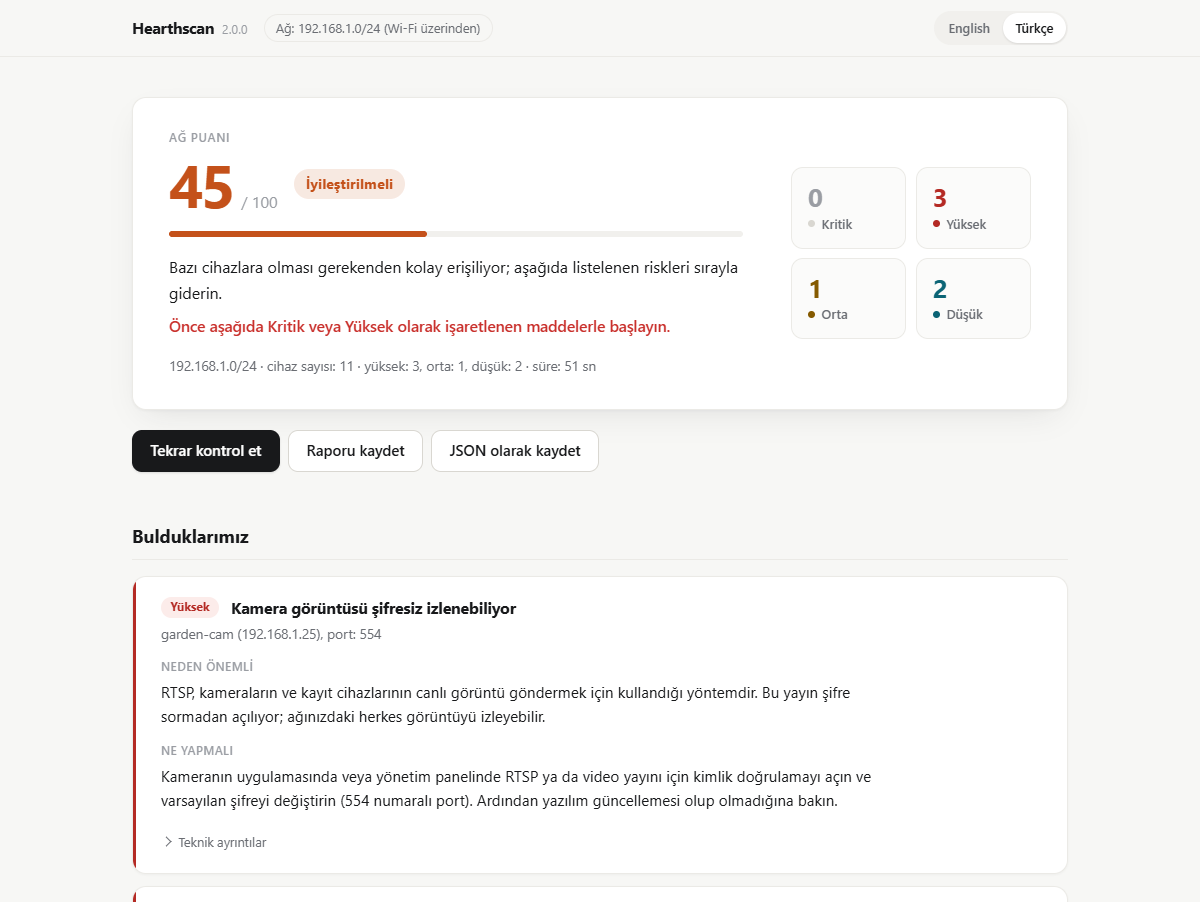
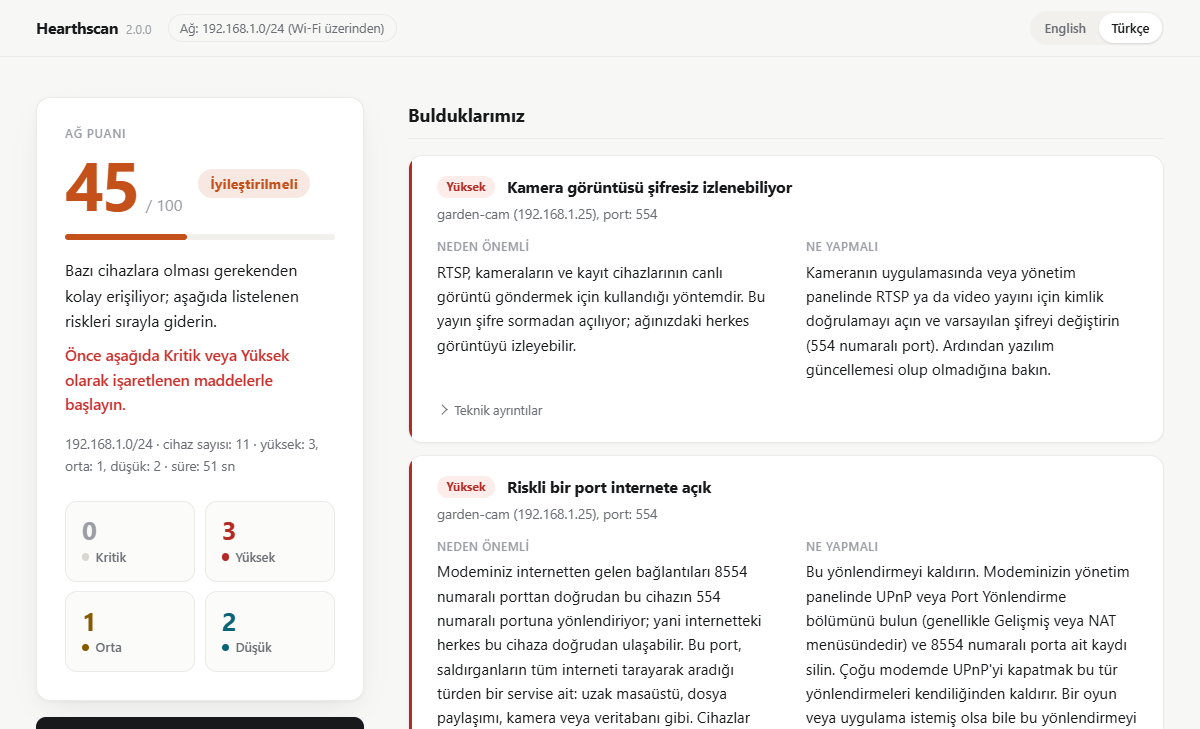
Lay the window out as a panel
In a wide window the result splits in two: the score, the counts and the
buttons stay at hand in a column on the left while the findings, the router
and the devices scroll by on the right. Why it matters and what to do sit
side by side in each finding, and the network and router details read
across in cells.

The start screen is no longer a card but the question, the answer and the
one button in the middle of the window. Narrow windows and phones keep the
single column.

The page only gains two wrappers and a class; the script and the texts are
unchanged. screenshots.py now crops below the score as well, since it sits
beside the first finding.

diff --git a/src/hearthscan/gui/web/index.html b/src/hearthscan/gui/web/index.html
@@ -62,7 +62,7 @@
     </div>
     <section class="card netcard" id="netcard" hidden aria-labelledby="net-title">
       <h2 id="net-title" data-t="gui.start.network"></h2>
-      <dl class="facts-grid" id="netfacts"></dl>
+      <dl class="facts-grid facts-row" id="netfacts"></dl>
     </section>
   </section>
 
@@ -83,83 +83,87 @@
     </div>
   </section>
 
-  <section class="view" id="view-result" hidden aria-labelledby="score-title">
-    <section class="card score" id="score">
-      <div class="score-main">
-        <h1 class="eyebrow" id="score-title" tabindex="-1" data-t="ui.score.title"></h1>
-        <p class="score-line">
-          <span class="number" id="score-number"></span>
-          <span class="out-of">/ 100</span>
-          <span class="band-title" id="band-title"></span>
-        </p>
-        <div class="meter" aria-hidden="true"><span class="meter-fill" id="meter-fill"></span></div>
-        <p class="band-summary" id="band-summary"></p>
-        <p class="urgent" id="urgent" hidden data-t="ui.score.urgent"></p>
-        <p class="warn" id="unprobed" hidden data-t="gui.result.unprobed"></p>
-        <p class="facts" id="facts"></p>
+  <section class="view view-result" id="view-result" hidden aria-labelledby="score-title">
+    <div class="result-side">
+      <section class="card score" id="score">
+        <div class="score-main">
+          <h1 class="eyebrow" id="score-title" tabindex="-1" data-t="ui.score.title"></h1>
+          <p class="score-line">
+            <span class="number" id="score-number"></span>
+            <span class="out-of">/ 100</span>
+            <span class="band-title" id="band-title"></span>
+          </p>
+          <div class="meter" aria-hidden="true"><span class="meter-fill" id="meter-fill"></span></div>
+          <p class="band-summary" id="band-summary"></p>
+          <p class="urgent" id="urgent" hidden data-t="ui.score.urgent"></p>
+          <p class="warn" id="unprobed" hidden data-t="gui.result.unprobed"></p>
+          <p class="facts" id="facts"></p>
+        </div>
+        <ul class="tiles" id="tiles" data-t-label="gui.result.counts"></ul>
+      </section>
+
+      <div class="toolbar">
+        <button type="button" class="btn btn-primary" id="again" data-t="gui.result.again"></button>
+        <button type="button" class="btn btn-secondary" id="save-report" data-t="gui.save.report"></button>
+        <button type="button" class="btn btn-secondary" id="save-json" data-t="gui.save.json"></button>
       </div>
-      <ul class="tiles" id="tiles" data-t-label="gui.result.counts"></ul>
-    </section>
-
-    <div class="toolbar">
-      <button type="button" class="btn btn-primary" id="again" data-t="gui.result.again"></button>
-      <button type="button" class="btn btn-secondary" id="save-report" data-t="gui.save.report"></button>
-      <button type="button" class="btn btn-secondary" id="save-json" data-t="gui.save.json"></button>
-    </div>
-    <div class="save-box">
-      <p class="save-message" id="save-message" role="status"></p>
-      <button type="button" class="btn btn-quiet" id="copy" hidden data-t="gui.save.copy"></button>
-      <div class="copy-box" id="copy-box" hidden>
-        <label for="copy-text" data-t="gui.save.text"></label>
-        <textarea id="copy-text" rows="8" readonly spellcheck="false"></textarea>
-      </div>
-    </div>
-
-    <section class="block" aria-labelledby="findings-title">
-      <h2 id="findings-title" data-t="ui.findings.title"></h2>
-      <p class="ok" id="findings-none" hidden data-t="ui.findings.none"></p>
-      <div class="finding-list" id="finding-list"></div>
-      <div id="fyi" hidden>
-        <h3 data-t="ui.findings.fyi"></h3>
-        <ul class="card list" id="fyi-list"></ul>
-      </div>
-    </section>
-
-    <section class="block" id="router" hidden aria-labelledby="router-title">
-      <h2 id="router-title" data-t="ui.router.title"></h2>
-      <dl class="card facts-grid router-facts" id="router-facts"></dl>
-      <h3 data-t="ui.router.mappings"></h3>
-      <div id="mappings"></div>
-    </section>
-
-    <section class="block" aria-labelledby="devices-title">
-      <div class="block-head">
-        <h2 id="devices-title"><span data-t="ui.devices.title"></span> <span class="count" id="device-count"></span></h2>
-        <div class="search" id="search-box">
-          <label class="sr-only" for="search" data-t="gui.devices.search"></label>
-          <svg class="icon" viewBox="0 0 24 24" aria-hidden="true" focusable="false">
-            <circle cx="11" cy="11" r="6.5"/>
-            <path d="m16 16 4 4"/>
-          </svg>
-          <input type="search" id="search" autocomplete="off" spellcheck="false" data-t-placeholder="gui.devices.search_hint">
+      <div class="save-box">
+        <p class="save-message" id="save-message" role="status"></p>
+        <button type="button" class="btn btn-quiet" id="copy" hidden data-t="gui.save.copy"></button>
+        <div class="copy-box" id="copy-box" hidden>
+          <label for="copy-text" data-t="gui.save.text"></label>
+          <textarea id="copy-text" rows="8" readonly spellcheck="false"></textarea>
         </div>
       </div>
-      <p class="hint shown" id="device-shown" aria-live="polite"></p>
-      <div class="card table" id="device-table"></div>
-      <p class="hint" id="no-match" hidden data-t="gui.devices.no_match"></p>
-    </section>
+    </div>
 
-    <section class="block" id="notes" hidden>
-      <details class="notes">
-        <summary id="notes-title"></summary>
-        <ul id="notes-list"></ul>
-      </details>
-    </section>
+    <div class="result-main">
+      <section class="block" aria-labelledby="findings-title">
+        <h2 id="findings-title" data-t="ui.findings.title"></h2>
+        <p class="ok" id="findings-none" hidden data-t="ui.findings.none"></p>
+        <div class="finding-list" id="finding-list"></div>
+        <div id="fyi" hidden>
+          <h3 data-t="ui.findings.fyi"></h3>
+          <ul class="card list" id="fyi-list"></ul>
+        </div>
+      </section>
 
-    <footer class="foot">
-      <p id="foot-made"></p>
-      <p data-t="gui.result.privacy"></p>
-    </footer>
+      <section class="block" id="router" hidden aria-labelledby="router-title">
+        <h2 id="router-title" data-t="ui.router.title"></h2>
+        <dl class="card facts-grid facts-row router-facts" id="router-facts"></dl>
+        <h3 data-t="ui.router.mappings"></h3>
+        <div id="mappings"></div>
+      </section>
+
+      <section class="block" aria-labelledby="devices-title">
+        <div class="block-head">
+          <h2 id="devices-title"><span data-t="ui.devices.title"></span> <span class="count" id="device-count"></span></h2>
+          <div class="search" id="search-box">
+            <label class="sr-only" for="search" data-t="gui.devices.search"></label>
+            <svg class="icon" viewBox="0 0 24 24" aria-hidden="true" focusable="false">
+              <circle cx="11" cy="11" r="6.5"/>
+              <path d="m16 16 4 4"/>
+            </svg>
+            <input type="search" id="search" autocomplete="off" spellcheck="false" data-t-placeholder="gui.devices.search_hint">
+          </div>
+        </div>
+        <p class="hint shown" id="device-shown" aria-live="polite"></p>
+        <div class="card table" id="device-table"></div>
+        <p class="hint" id="no-match" hidden data-t="gui.devices.no_match"></p>
+      </section>
+
+      <section class="block" id="notes" hidden>
+        <details class="notes">
+          <summary id="notes-title"></summary>
+          <ul id="notes-list"></ul>
+        </details>
+      </section>
+
+      <footer class="foot">
+        <p id="foot-made"></p>
+        <p data-t="gui.result.privacy"></p>
+      </footer>
+    </div>
   </section>
 </main>
 </body>

diff --git a/src/hearthscan/gui/web/styles.css b/src/hearthscan/gui/web/styles.css
@@ -116,7 +116,7 @@ code, pre, .port { font-family: var(--mono); }
   border: 0;
 }
 
-.wrap { max-width: 62rem; margin: 0 auto; padding-left: 1.75rem; padding-right: 1.75rem; }
+.wrap { max-width: 74rem;margin: 0 auto; padding-left: 1.75rem; padding-right: 1.75rem; }
 
 /* Header */
 
@@ -295,14 +295,30 @@ code, pre, .port { font-family: var(--mono); }
 
 /* Start */
 
-.view-start { max-width: 40rem; margin: 0 auto; }
-.hero {
-  padding: 3.25rem 2.5rem 2.75rem;
-  text-align: center;
-  box-shadow: var(--shadow-lift);
+/* The start screen is no card: just the question, the answer and the one button, in the middle. */
+.view-start {
+  display: flex;
+  flex-direction: column;
+  justify-content: center;
+  max-width: 46rem;
+  min-height: calc(100vh - 11rem);
+  margin: 0 auto;
 }
-.hero h1 { margin: 0 0 0.85rem; font-size: 2.1rem; font-weight: 700; letter-spacing: -0.028em; }
-.lead { max-width: 32rem; margin: 0 auto; font-size: 1.05rem; color: var(--muted); }
+.hero {
+  padding: 1rem 0 2.5rem;
+  border: 0;
+  background: transparent;
+  box-shadow: none;
+  text-align: center;
+}
+.hero h1 {
+  margin: 0 0 1rem;
+  font-size: 2.85rem;
+  font-weight: 700;
+  line-height: 1.1;
+  letter-spacing: -0.035em;
+}
+.lead { max-width: 34rem; margin: 0 auto; font-size: 1.1rem; color: var(--muted); }
 .safe {
   display: inline-flex;
   align-items: flex-start;
@@ -345,7 +361,7 @@ code, pre, .port { font-family: var(--mono); }
 }
 .ports-only { margin-top: 1.1rem; }
 .ports-only .hint { max-width: 26rem; margin: 0 auto; font-size: 0.8rem; color: var(--faint); }
-.netcard { margin-top: 1rem; padding: 1.1rem 1.4rem 1.2rem; }
+.netcard { padding: 1.1rem 1.4rem 1.2rem; }
 .netcard h2 {
   margin-bottom: 0.6rem;
   font-size: 0.75rem;
@@ -737,7 +753,7 @@ details > summary { cursor: pointer; }
 .table { overflow-x: auto; }
 table { width: 100%; border-collapse: collapse; font-size: 0.9rem; }
 th, td {
-  padding: 0.7rem 1rem;
+  padding: 0.7rem 0.85rem;
   border-top: 1px solid var(--line);
   text-align: left;
   vertical-align: top;
@@ -833,6 +849,64 @@ tr.off td { color: var(--faint); }
   color: var(--faint);
 }
 .foot p + p { margin-top: 0.3rem; }
+
+/* Wider windows */
+
+/* Facts read across in cells: the label above, the value below. */
+@media (min-width: 40rem) {
+  .facts-row {
+    grid-template-columns: none;
+    grid-template-rows: auto auto;
+    grid-auto-flow: column;
+    grid-auto-columns: minmax(0, 1fr);
+  }
+  .facts-row dt, .facts-row dd {
+    padding: 0 1.25rem;
+    border-top: 0;
+    border-left: 1px solid var(--line);
+    text-align: left;
+  }
+  .facts-row dt:first-of-type, .facts-row dt:first-of-type + dd { padding-left: 0; border-left: 0; }
+  .facts-row dt { padding-bottom: 0.2rem; font-size: 0.8rem; }
+  .facts-row dd { font-size: 1rem; font-weight: 600; }
+  .router-facts { padding: 1.1rem 1.4rem; }
+}
+
+/* Why it matters and what to do, side by side. */
+@media (min-width: 48rem) {
+  .explain {
+    display: grid;
+    grid-template-rows: auto 1fr;
+    grid-auto-flow: column;
+    grid-auto-columns: minmax(0, 1fr);
+    column-gap: 2.25rem;
+  }
+  .explain dt { margin-top: 0; }
+}
+
+/* The result as a panel: the score and the actions stay at hand on the left,
+   what was found scrolls by on the right. */
+@media (min-width: 64rem) {
+  .view-result {
+    display: grid;
+    grid-template-columns: 20.5rem minmax(0, 1fr);
+    gap: 0 2.75rem;
+    align-items: start;
+  }
+  .result-side { position: sticky; top: 5rem; }
+  .result-side .score { grid-template-columns: 1fr; gap: 1.5rem; padding: 1.75rem; }
+  .result-side .number { font-size: 4.25rem; }
+  .result-side .toolbar { margin-top: 1rem; }
+  .result-side .toolbar .btn-primary { flex: 1 1 100%; }
+  .result-side .toolbar .btn-secondary { flex: 1 1 0; }
+  .result-main > .block:first-child { margin-top: 0.4rem; }
+  .result-main .foot { margin-top: 3rem; }
+}
+
+/* A short window cannot hold the whole left column, so it scrolls with the page. */
+@media (min-width: 64rem) and (max-height: 46rem) {
+  .result-side { position: static; }
+}
 
 /* Narrow windows and phones */
 

diff --git a/scripts/screenshots.py b/scripts/screenshots.py
@@ -463,8 +463,14 @@ READY = """(() => {
 
 # Where the first finding ends. The picture stops a little below it, on a whole card.
 FIRST_CARD_BOTTOM = """(() => {
+  // The score sits beside the findings in a wide window, so the picture holds both.
   const card = document.querySelector('#finding-list .finding');
-  return card ? card.getBoundingClientRect().bottom + window.scrollY : 0;
+  const score = document.querySelector('#score');
+  const bottom = Math.max(
+    card ? card.getBoundingClientRect().bottom : 0,
+    score ? score.getBoundingClientRect().bottom : 0
+  );
+  return bottom ? bottom + window.scrollY : 0;
 })()"""
 
 
